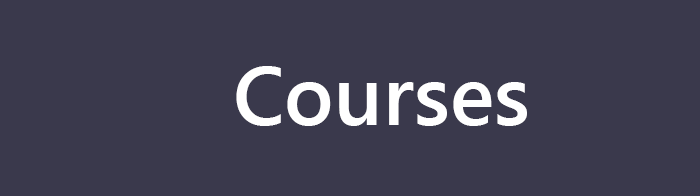
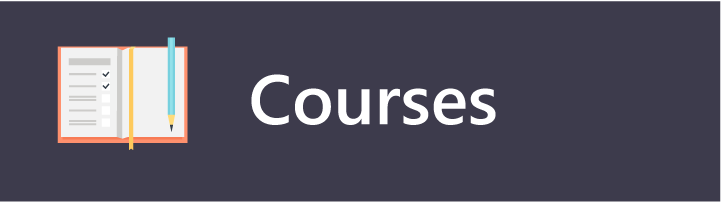
home page update

Changed region(s): [[0.06, 0.1837, 0.27, 0.7347], [0.33, 0.3367, 0.75, 0.6429], [0.0, 0.0, 1.0, 1.0]]

diff --git a/homePage.py b/homePage.py
@@ -16,7 +16,6 @@ cursor = myconn.cursor()
 
 class HomePage:
     def __init__(self, window, Id):
-        self.root = Tk()
         self.window = window
         self.window.geometry("3200x2000+200+200")
         self.window.title("HKU Student System")
@@ -25,24 +24,27 @@ class HomePage:
             (file='images\\home.png')
         self.image_panel = Label(self.window, image=self.database_frame)
         self.image_panel.pack(fill='both', expand='yes')
-        self.txt = ""
-        self.count = 0
-        self.text = ''
+        self.txt = "home page"
         self.heading = Label(self.window, text=self.txt, font=("yu gothic ui", 30, "bold"), bg="white", fg="black",
                              bd=5, relief=FLAT)
+        self.profile = ImageTk.PhotoImage \
+            (file='images\\profile.png')
+        self.profile_button = Button(self.window, command=self.profile, image=self.profile, relief=FLAT, borderwidth=0,
+                                     cursor="hand2")
+        self.profile_button.place(x=0, y=0)
 
-        #self.profile = ImageTk.PhotoImage \
-        #   (file='images\\profile.png')
-        #self.profile_button = Button(self.window, command=profile, image=self.profile, relief=FLAT, borderwidth=0, cursor="hand2")
-        #self.profile.place(x=0, y=0)
+        self.name = "Zhang Maoqi"
+        self.clabel = Label(self.window, text= self.name, bg="white", fg="#4f4e4d",
+                            font=("yu gothic ui", 13, "bold"))
+        self.clabel.place(x=170, y=380)
 
         self.clabel = Label(self.window, text="Current time", bg="white", fg="#4f4e4d",
                            font=("yu gothic ui", 13, "bold"))
-        self.clabel.place(x=100, y=460)
+        self.clabel.place(x=100, y=480)
         self.label = Label(self.window, text="", bg="white", fg="#4f4e4d",
                                     font=("yu gothic ui", 13, "bold"))
         self.update_clock()
-        self.label.place(x=450, y=460)
+        self.label.place(x=450, y=480)
         """self.lastlogin = Label(self.window, text="Last login", bg="white", fg="#4f4e4d",
                            font=("yu gothic ui", 13, "bold"))
         self.lastlogin.place(x=100, y=500)"""
@@ -57,7 +59,16 @@ class HomePage:
             (file='images\\timetable.png')
         self.timetable_button = Button(self.window, command=self.timetable, image=self.timetable, relief=FLAT, borderwidth=0,
                                      cursor="hand2")
+
         self.timetable_button.place(x=0, y=600)
+
+        self.deadline = ImageTk.PhotoImage \
+            (file='images\\deadline.png')
+        self.deadline_button = Button(self.window, command=self.timetable, image=self.deadline, relief=FLAT,
+                                       borderwidth=0,
+                                       cursor="hand2")
+
+        self.deadline_button.place(x=0, y=1000)
 
     def connectDB():
         pass
@@ -71,7 +82,6 @@ class HomePage:
         if (False):
             success("send emails")
 
-
     def profile(self):
         pass
 
@@ -79,8 +89,17 @@ class HomePage:
         pass
 
     def courses(self):
-
-        pass
+        scrollbar = Scrollbar(self.window)
+        scrollbar.pack(side=RIGHT, fill=Y)
+        mylist = Listbox(self.window, yscrollcommand=scrollbar.set)
+        for line in range(100):
+            mylist.insert(END, "This is line number " + str(line))
+        mylist.pack(side=LEFT, fill=BOTH)
+        self.courses = ImageTk.PhotoImage \
+            (file='images\\courses.png')
+        self.courses_button = Button(self.window, command=self.courses, image=self.courses, relief=FLAT, borderwidth=0,
+                                     cursor="hand2")
+        self.courses_button.place(x=400, y=800)
 
     def generateClassTable():
         #generate class table
@@ -103,7 +122,8 @@ class HomePage:
     def update_clock(self):
         now = time.strftime("%H:%M:%S")
         self.label.configure(text=now)
-        self.root.after(1000, self.update_clock)
+        self.window.after(1000, self.update_clock)
+
 
 # a success window that shows "Successfully " + task each time when something completed by system
 class success:

diff --git a/main.py b/main.py
@@ -9,6 +9,7 @@ import os
 import random
 import cv2
 from faceCapture import faceCapture
+from homePage import HomePage
 from train import train
 
 import ctypes
@@ -54,7 +55,7 @@ class ConnectDatabase:
         self.password_entry = Entry(self.window, relief=FLAT, bg="alice blue", fg="#6b6a69",
                                     font=("yu gothic ui semibold", 12))
         self.password_entry.place(x=2200, y=728, width=800)
-        
+
         def autoSignIn():
             now = time.time()  ###For calculate seconds of video
             future = now + 20
@@ -142,8 +143,10 @@ class ConnectDatabase:
             #compare with corresponding pwd            
             match = result == self.password_entry.get()            
             if match:
-                #open main page
-                pass
+                home = Tk()
+                Id = 0
+                HomePage(home, Id)
+                home.mainloop()
             else:
                 #generate err message
                 e = 'Wrong pwd!'
